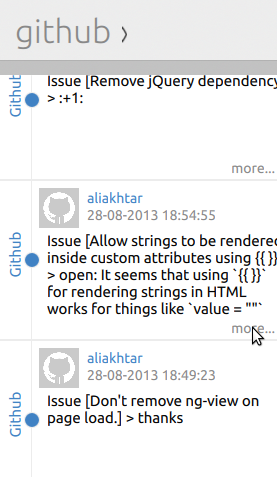
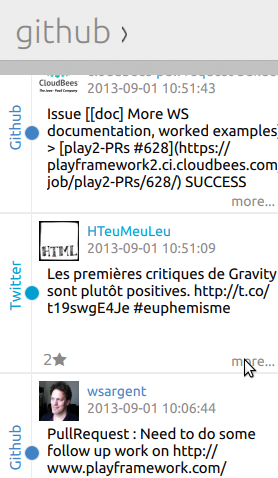
add page message view imgs

diff --git a/mobile_en.html b/mobile_en.html
@@ -9,6 +9,10 @@ SkimboU is an application for the next phone generation running with <a href="ht
 
 <center><img src="{{site.baseurl}}/images/mobile/skimbou_login.png"></center>
 
+<h2><a name="login">Choose a server</a></h2>
+
+<center><img src="{{site.baseurl}}/images/mobile/skimbou_server.png"></center>
+
 <h2><a name="loginTwitter">Connect with twitter</a></h2>
 
 <center><img src="{{site.baseurl}}/images/mobile/skimbou_connect_twitter.png"></center>
@@ -19,7 +23,9 @@ SkimboU is an application for the next phone generation running with <a href="ht
 
 <h2><a name="messages">Show messages from providers</a></h2>
 
-<center><img src="{{site.baseurl}}/images/mobile/skimbou_posts.png"><img src="{{site.baseurl}}/images/mobile/skimbou_post.png"></center>
+<center><img src="{{site.baseurl}}/images/mobile/skimbou_posts.png"><img src="{{site.baseurl}}/images/mobile/skimbou_post_twitter.png"></center>
+
+<center><img src="{{site.baseurl}}/images/mobile/skimbou_posts_2.png"><img src="{{site.baseurl}}/images/mobile/skimbou_post_github.png"></center>
 
 <h2><a name="addCol">Add column</a></h2>
 
@@ -33,12 +39,17 @@ SkimboU is an application for the next phone generation running with <a href="ht
 
 <center><img src="{{site.baseurl}}/images/mobile/skimbou_del_column_1.png"><img src="{{site.baseurl}}/images/mobile/skimbou_del_column_2.png"></center>
 
-<center>Soon</center>
+<h3><a name="starMessage">Star message : retweet, like, +1, thank...</a></h3>
 
-<h3>Star message : retweet, like, +1, thank...</h3>
+<center><img src="{{site.baseurl}}/images/mobile/skimbou_post_twitter_toolbar.png"><img src="{{site.baseurl}}/images/mobile/skimbou_post_github_toolbar.png"></center>
 
-<center>Soon</center>
+<h3>Soon</h3>
 
-<h3>Send message</h3>
-
-<center>Soon</center>
+<ul>
+	<li>Send/share a message</li>
+	<li>Delayed message</li>
+	<li>Show my account</li>
+	<li>Messages no read : play with scrollBar</li>
+	<li>Mode paysage + other device (tablet...)</li>
+	<li>Style improvement</li>
+</ul>

diff --git a/mobile.html b/mobile.html
@@ -23,7 +23,9 @@ SkimboU est une application pour les prochains téléphones tournant sous <a hre
 
 <h2><a name="messages">Voir les messages</a></h2>
 
-<center><img src="{{site.baseurl}}/images/mobile/skimbou_posts.png"><img src="{{site.baseurl}}/images/mobile/skimbou_post.png"></center>
+<center><img src="{{site.baseurl}}/images/mobile/skimbou_posts.png"><img src="{{site.baseurl}}/images/mobile/skimbou_post_twitter.png"></center>
+
+<center><img src="{{site.baseurl}}/images/mobile/skimbou_posts_2.png"><img src="{{site.baseurl}}/images/mobile/skimbou_post_github.png"></center>
 
 <h2><a name="addCol">Ajouter une colonne</a></h2>
 
@@ -37,10 +39,17 @@ SkimboU est une application pour les prochains téléphones tournant sous <a hre
 
 <center><img src="{{site.baseurl}}/images/mobile/skimbou_del_column_1.png"><img src="{{site.baseurl}}/images/mobile/skimbou_del_column_2.png"></center>
 
-<h3>Etoiler un message : retweet, like, +1, thank...</h3>
+<h3><a name="starMessage">Etoiler un message : retweet, like, +1, thank...</a></h3>
 
-<center>Bientôt</center>
+<center><img src="{{site.baseurl}}/images/mobile/skimbou_post_twitter_toolbar.png"><img src="{{site.baseurl}}/images/mobile/skimbou_post_github_toolbar.png"></center>
 
-<h3>Envoyer un message</h3>
+<h3>Bientôt</h3>
 
-<center>Bientôt</center>
+<ul>
+	<li>Envoyer/partager un message</li>
+	<li>Planifier un message</li>
+	<li>Voir mon compte</li>
+	<li>Messages non lus : jouer avec le scrollBar</li>
+	<li>Mode paysage + tablette</li>
+	<li>Meilleurs style</li>
+</ul>
